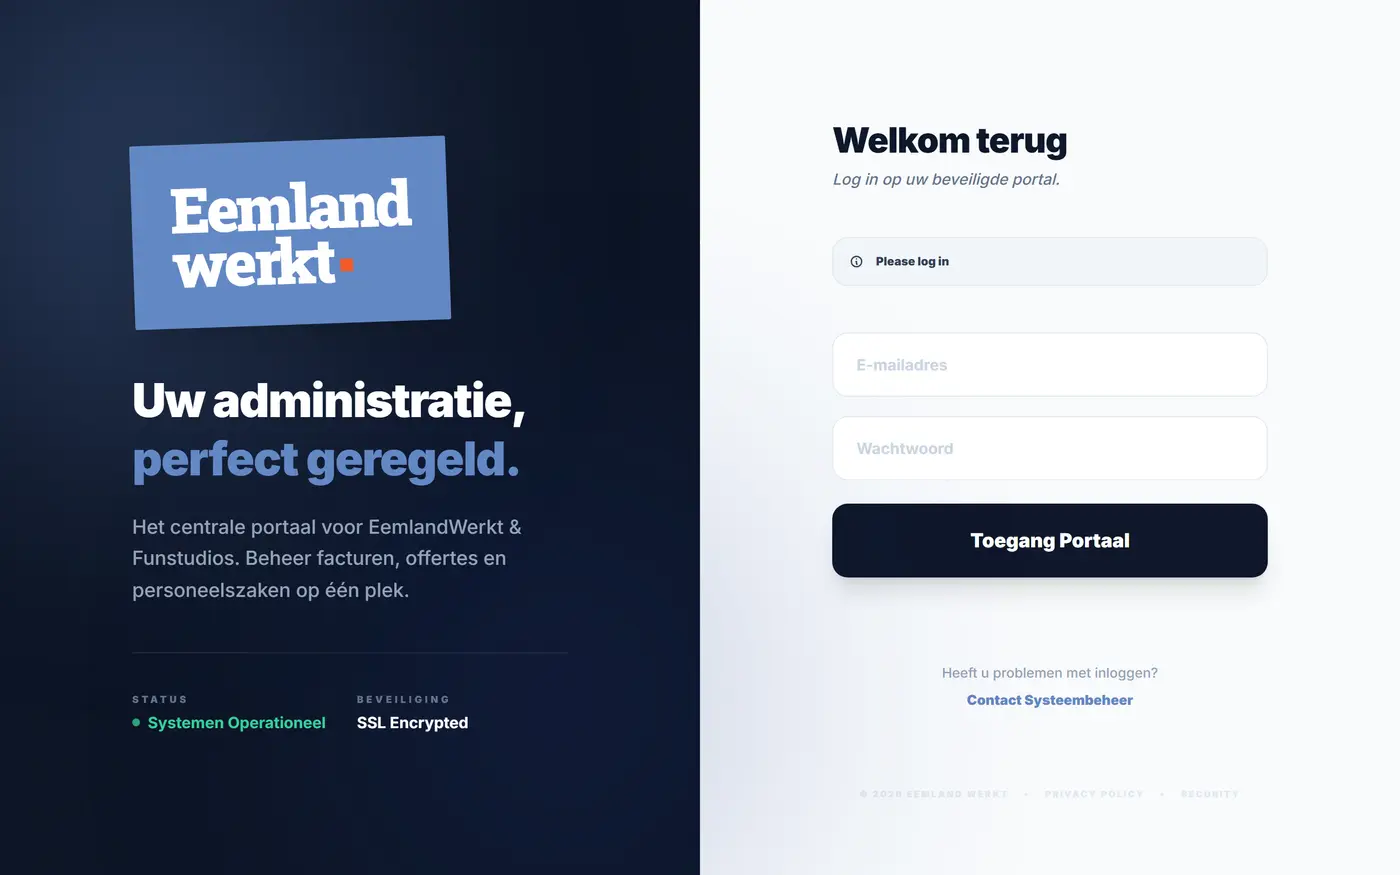
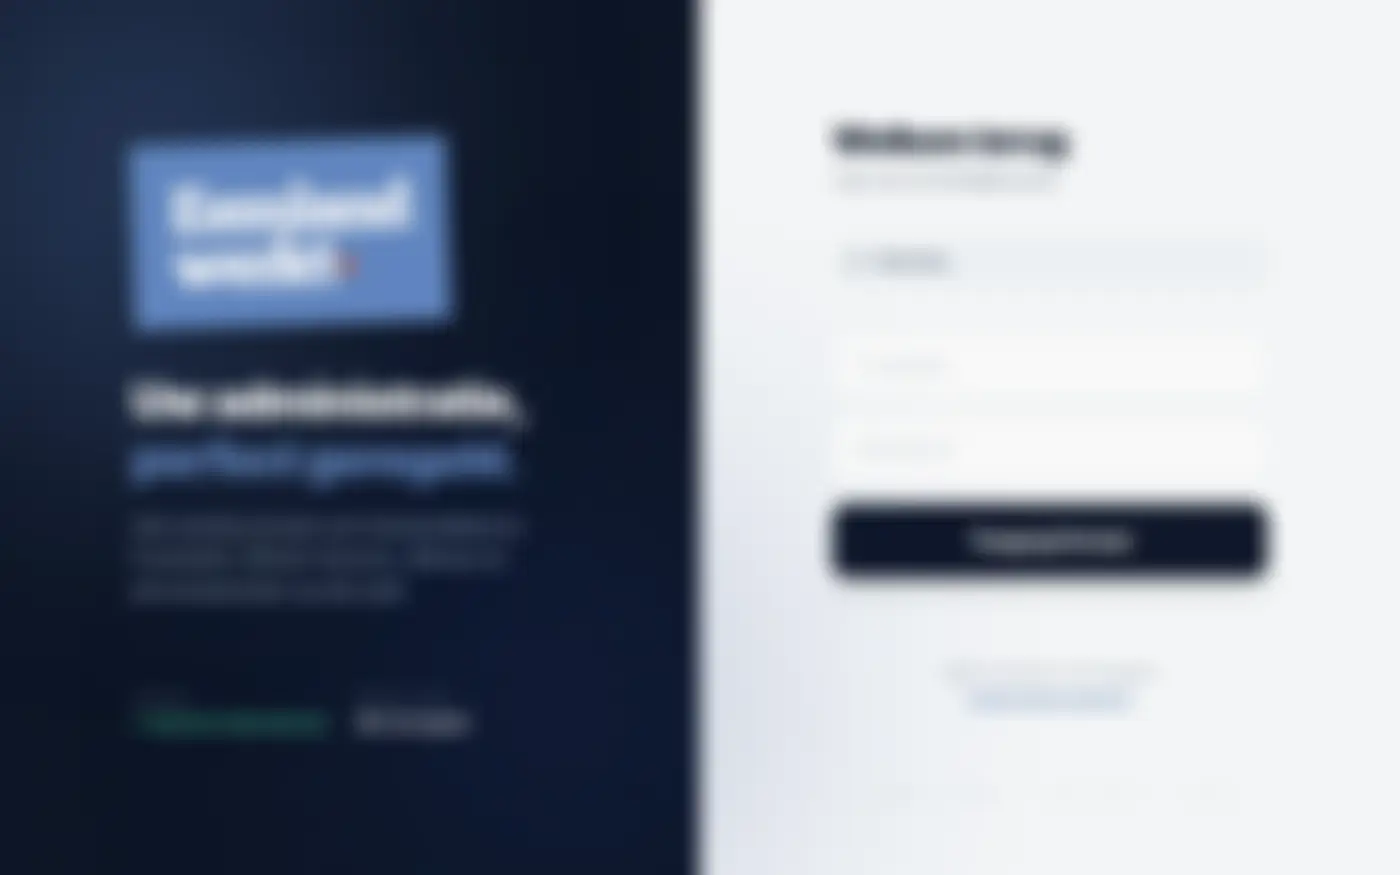
Simpeler: projectuitleg pas na een klik, klantgegevens onleesbaar gemaakt

diff --git a/index.html b/index.html
@@ -192,14 +192,26 @@
     100% { box-shadow: 0 0 0 0 rgba(47, 232, 176, 0); }
   }
 
-  /* ================= projectdetails ================= */
-  .details { margin-top: clamp(44px, 6vw, 72px); }
-  .detail { scroll-margin-top: 24px; padding-top: clamp(34px, 4.5vw, 54px); border-top: 1px solid var(--edge); }
-  .detail + .detail { margin-top: clamp(34px, 4.5vw, 54px); }
+  /* ================= projectdetails (alleen zichtbaar na een klik) ================= */
+  .details { margin-top: var(--col-gap); scroll-margin-top: 20px; }
+  .detail {
+    scroll-margin-top: 20px;
+    background: var(--panel);
+    border: 1px solid var(--edge-2);
+    border-radius: 20px;
+    padding: clamp(22px, 3vw, 38px);
+    box-shadow: var(--glow-hi);
+  }
   .d-top { display: flex; flex-wrap: wrap; align-items: center; gap: 12px; }
   .d-when { font-family: var(--mono); font-size: .74rem; color: var(--ink-3); letter-spacing: .06em; }
-  .d-back { margin-left: auto; font-family: var(--mono); font-size: .72rem; color: var(--ink-3); text-decoration: none; }
-  .d-back:hover { color: var(--beam); }
+  .d-close {
+    margin-left: auto;
+    font-family: var(--mono); font-size: .74rem; color: var(--ink-2);
+    background: var(--glass); border: 1px solid var(--edge);
+    padding: 7px 14px; border-radius: 999px; cursor: pointer;
+  }
+  .d-close:hover { border-color: var(--beam); color: var(--ink); }
+  .tile.active a { border-color: var(--beam); box-shadow: var(--glow-hi); }
   .detail h3 {
     font-family: var(--display); font-weight: 700;
     font-size: clamp(1.7rem, 4.2vw, 2.4rem); line-height: 1.07; letter-spacing: -.04em;
@@ -436,7 +448,7 @@
   <div class="wrap">
     <p class="eyebrow">Overzicht</p>
     <h2>Kies waar je naar wil kijken</h2>
-    <p class="intro">Elke tegel is een echt project. Klik erop en je springt naar de uitleg eronder: een voorbeeld uit de praktijk, wat het doet, en drie schermen van de draaiende versie.</p>
+    <p class="intro">Klik op een tegel en de uitleg klapt eronder open: een voorbeeld uit de praktijk, wat het doet, en drie schermen van de draaiende versie.</p>
 
     <div class="filters" id="filters"></div>
     <ul class="tiles row3" id="tiles">
@@ -459,7 +471,7 @@
         <a href="#p-eemland">
           <div class="thumb">
             <span class="pill on"><i></i>In bedrijf</span>
-            <img src="img/t-eemland.webp" width="760" height="475" alt="Inlogportaal van Eemland Boekt met de tekst Uw administratie, perfect geregeld.">
+            <img src="img/t-eemland.webp" width="760" height="475" alt="Onscherp gemaakt inlogportaal van Eemland Boekt.">
           </div>
           <div class="body">
             <h3>Eemland Boekt</h3>
@@ -576,7 +588,7 @@
         <div class="d-top">
           <span class="pill on"><i></i>Live online</span>
           <span class="d-when">augustus &ndash; september 2026</span>
-          <a class="d-back" href="#overzicht">&uarr; overzicht</a>
+          <button class="d-close" type="button">sluiten &times;</button>
         </div>
         <h3>Kozijnfabriek Direct</h3>
         <p class="d-lead">Voor een kozijnenfabrikant in de regio Amsterdam: een website die zelf offertes voorbereidt, en een dashboard waar het personeel de rest afhandelt.</p>
@@ -599,7 +611,6 @@
           <div class="col">
             <h4>Techniek</h4>
             <ul class="stack"><li>React 19</li><li>Node 22</li><li>Supabase</li><li>Google Gemini</li><li>Google Maps</li><li>Railway</li></ul>
-            <p class="numbers">116 opleveringen &middot; 39.642 regels</p>
             <div class="d-cta"><a class="btn btn-main" href="https://kozijnfabriekdirect.nl" target="_blank" rel="noopener">Open de site</a></div>
           </div>
         </div>
@@ -612,8 +623,8 @@
           </figure>
           <figure class="frame">
             <div class="bar"><i></i><i></i><i></i><b>reviews</b></div>
-            <div class="holder"><img src="img/kozijnfabriek-3.webp" width="1400" height="875" loading="lazy" alt="Sectie Wat onze klanten zeggen met drie reviews van vijf sterren."></div>
-            <figcaption>Reviews van echte klanten.</figcaption>
+            <div class="holder"><img src="img/kozijnfabriek-3.webp" width="1400" height="875" loading="lazy" alt="Sectie Wat onze klanten zeggen met drie reviews; de namen eronder zijn onleesbaar gemaakt."></div>
+            <figcaption>Reviews van echte klanten &mdash; namen bewust onleesbaar.</figcaption>
           </figure>
           <figure class="frame">
             <div class="bar"><i></i><i></i><i></i><b>vraag &amp; antwoord</b></div>
@@ -628,7 +639,7 @@
         <div class="d-top">
           <span class="pill on"><i></i>Draait in bedrijf</span>
           <span class="d-when">januari &ndash; september 2026</span>
-          <a class="d-back" href="#overzicht">&uarr; overzicht</a>
+          <button class="d-close" type="button">sluiten &times;</button>
         </div>
         <h3>Eemland Boekt</h3>
         <p class="d-lead">De complete administratie van een bouwbedrijf, van offerte tot btw-aangifte, in &eacute;&eacute;n systeem dat elke dag gebruikt wordt.</p>
@@ -651,7 +662,6 @@
           <div class="col">
             <h4>Techniek</h4>
             <ul class="stack"><li>React 19</li><li>Express</li><li>PostgreSQL</li><li>Supabase Storage</li><li>pdf-lib</li><li>Google Gemini</li></ul>
-            <p class="numbers">196 opleveringen &middot; 30.060 regels</p>
             <p class="note-closed">Besloten klantomgeving &mdash; rondleiding op aanvraag.</p>
           </div>
         </div>
@@ -659,8 +669,8 @@
         <div class="frames row3 solo">
           <figure class="frame">
             <div class="bar"><i></i><i></i><i></i><b>inlogportaal</b></div>
-            <div class="holder"><img src="img/eemland-1.webp" width="1400" height="875" loading="lazy" alt="Inlogscherm met de tekst Uw administratie, perfect geregeld en een formulier om in te loggen."></div>
-            <figcaption>Het portaal waar het bedrijf elke ochtend binnenkomt.</figcaption>
+            <div class="holder"><img src="img/eemland-1.webp" width="1400" height="875" loading="lazy" alt="Onscherp gemaakt inlogscherm van de besloten klantomgeving; alleen de indeling is te zien."></div>
+            <figcaption>Bewust onscherp: dit is een besloten omgeving van een klant.</figcaption>
           </figure>
         </div>
       </article>
@@ -670,7 +680,7 @@
         <div class="d-top">
           <span class="pill on"><i></i>Live online</span>
           <span class="d-when">september 2026</span>
-          <a class="d-back" href="#overzicht">&uarr; overzicht</a>
+          <button class="d-close" type="button">sluiten &times;</button>
         </div>
         <h3>Fun Studios</h3>
         <p class="d-lead">Voor een entertainmentbedrijf: photo booths, 360 booth, low fog, indoor vuurwerk en lichtletters &mdash; met een boekingsflow die de aanvragen binnenhaalt.</p>
@@ -693,7 +703,6 @@
           <div class="col">
             <h4>Techniek</h4>
             <ul class="stack"><li>React 19</li><li>Vite</li><li>Tailwind 4</li><li>Motion</li><li>Express</li><li>sharp</li></ul>
-            <p class="numbers">31 opleveringen &middot; 8.437 regels</p>
             <div class="d-cta"><a class="btn btn-main" href="https://www.funstudios.nl" target="_blank" rel="noopener">Open de site</a></div>
           </div>
         </div>
@@ -722,7 +731,7 @@
         <div class="d-top">
           <span class="pill off"><i></i>Prototype</span>
           <span class="d-when">september 2026</span>
-          <a class="d-back" href="#overzicht">&uarr; overzicht</a>
+          <button class="d-close" type="button">sluiten &times;</button>
         </div>
         <h3>KijkVergunning</h3>
         <p class="d-lead">Zie wat je mag bouwen voordat je begint: adres invullen, en je weet of die uitbouw vergunningvrij kan.</p>
@@ -745,7 +754,6 @@
           <div class="col">
             <h4>Techniek</h4>
             <ul class="stack"><li>Next.js 16</li><li>React 19</li><li>MapLibre</li><li>three.js</li><li>Supabase</li><li>zustand</li></ul>
-            <p class="numbers">10.453 regels &middot; demo draait zonder instellingen</p>
             <p class="note-closed">Draait lokaal &mdash; live demo op afspraak.</p>
           </div>
         </div>
@@ -774,7 +782,7 @@
         <div class="d-top">
           <span class="pill on"><i></i>Live online</span>
           <span class="d-when">januari &ndash; augustus 2026</span>
-          <a class="d-back" href="#overzicht">&uarr; overzicht</a>
+          <button class="d-close" type="button">sluiten &times;</button>
         </div>
         <h3>CourtSwap</h3>
         <p class="d-lead">Een compleet marktplaatsplatform: adverteren, zoeken op de kaart, chatten en afspreken &mdash; als website &eacute;n als app.</p>
@@ -797,7 +805,6 @@
           <div class="col">
             <h4>Techniek</h4>
             <ul class="stack"><li>React</li><li>Express 5</li><li>Prisma</li><li>PostgreSQL</li><li>Cloudinary</li><li>Capacitor</li></ul>
-            <p class="numbers">40 opleveringen &middot; 11.339 regels</p>
             <div class="d-cta"><a class="btn btn-main" href="https://web-production-d363a.up.railway.app" target="_blank" rel="noopener">Open het platform</a></div>
           </div>
         </div>
@@ -816,7 +823,7 @@
         <div class="d-top">
           <span class="pill on"><i></i>Live online</span>
           <span class="d-when">november 2025 &ndash; januari 2026</span>
-          <a class="d-back" href="#overzicht">&uarr; overzicht</a>
+          <button class="d-close" type="button">sluiten &times;</button>
         </div>
         <h3>REMH Bouw &amp; Verbouw</h3>
         <p class="d-lead">Website voor een aannemer, met een configurator die de klant zijn eigen dakkapel laat samenstellen.</p>
@@ -838,7 +845,6 @@
           <div class="col">
             <h4>Techniek</h4>
             <ul class="stack"><li>React 19</li><li>Express</li><li>MySQL</li><li>PDFKit</li><li>three.js</li><li>Railway</li></ul>
-            <p class="numbers">32 opleveringen &middot; 5.760 regels</p>
             <div class="d-cta"><a class="btn btn-main" href="https://remhofficial-production.up.railway.app" target="_blank" rel="noopener">Open de site</a></div>
           </div>
         </div>
@@ -867,7 +873,7 @@
         <div class="d-top">
           <span class="pill on"><i></i>Live online</span>
           <span class="d-when">augustus 2026</span>
-          <a class="d-back" href="#overzicht">&uarr; overzicht</a>
+          <button class="d-close" type="button">sluiten &times;</button>
         </div>
         <h3>Glacio Klimaattechniek</h3>
         <p class="d-lead">Bedrijfssite voor een airco- en klimaatinstallateur, met een keuzehulp, vaste tarieven en online intake.</p>
@@ -889,7 +895,6 @@
           <div class="col">
             <h4>Techniek</h4>
             <ul class="stack"><li>Node</li><li>Railway</li></ul>
-            <p class="numbers">online sinds 28 augustus 2026</p>
             <div class="d-cta"><a class="btn btn-main" href="https://glacio-site-production.up.railway.app" target="_blank" rel="noopener">Open de site</a></div>
           </div>
         </div>
@@ -918,7 +923,7 @@
         <div class="d-top">
           <span class="pill off"><i></i>Prototype</span>
           <span class="d-when">februari 2026</span>
-          <a class="d-back" href="#overzicht">&uarr; overzicht</a>
+          <button class="d-close" type="button">sluiten &times;</button>
         </div>
         <h3>Lumi&egrave;re Dakkapellen</h3>
         <p class="d-lead">Een dakkapel die je in 3D op je eigen dak ziet staan &mdash; draaien, afwerking kiezen, offerte eruit.</p>
@@ -939,7 +944,6 @@
           <div class="col">
             <h4>Techniek</h4>
             <ul class="stack"><li>React 19</li><li>three.js</li><li>React Three Fiber</li><li>Framer Motion</li><li>jsPDF</li></ul>
-            <p class="numbers">1.499 regels</p>
             <p class="note-closed">Werkend prototype &mdash; draait lokaal.</p>
           </div>
         </div>
@@ -958,7 +962,7 @@
         <div class="d-top">
           <span class="pill off"><i></i>Studieproject</span>
           <span class="d-when">maart &ndash; juni 2026</span>
-          <a class="d-back" href="#overzicht">&uarr; overzicht</a>
+          <button class="d-close" type="button">sluiten &times;</button>
         </div>
         <h3>Kiesradar</h3>
         <p class="d-lead">Teamproject aan de Hogeschool van Amsterdam: een fysieke opstelling die studiekiezers helpt kiezen, met sensoren die met een webapp praten.</p>
@@ -980,7 +984,6 @@
           <div class="col">
             <h4>Techniek</h4>
             <ul class="stack"><li>Python</li><li>Flask</li><li>MySQL</li><li>Docker</li><li>ESP32</li><li>GitLab CI</li></ul>
-            <p class="numbers">97 opleveringen &middot; teamproject in tweetal</p>
           </div>
         </div>
 
@@ -1000,7 +1003,7 @@
   <div class="wrap">
     <p class="eyebrow">Tijdlijn</p>
     <h2>Wanneer ik waaraan werkte</h2>
-    <p class="intro">Elk balkje loopt van de eerste tot de laatste keer dat ik code opleverde in dat project &mdash; 521 opleveringen in totaal. Deze cijfers komen niet uit mijn hoofd, ze zijn geteld in de projecten zelf.</p>
+    <p class="intro">Elk balkje loopt van de eerste tot de laatste dag dat ik aan dat project werkte. Niet uit mijn hoofd opgeschreven &mdash; afgelezen uit de projecten zelf.</p>
     <div class="gantt" id="gantt"></div>
     <div class="legend">
       <span><i style="background: linear-gradient(100deg,#5B8CFF,#C06BFF)"></i> staat nu live</span>
@@ -1161,22 +1164,64 @@
     b.addEventListener("click", function () {
       Array.prototype.forEach.call(box.children, function (o) { o.setAttribute("aria-pressed", "false"); });
       b.setAttribute("aria-pressed", "true");
-      tiles.concat(details).forEach(function (el) {
+      sluit();
+      tiles.forEach(function (el) {
         el.hidden = f.key !== "alles" && !has(el, f.key);
       });
     });
     box.appendChild(b);
   });
 
-  /* een verborgen project moet weer zichtbaar worden als je er direct heen linkt */
-  window.addEventListener("hashchange", function () {
-    var t = document.querySelector(window.location.hash || "#none");
-    if (t && t.hidden) {
-      var alles = document.getElementById("filter-alles");
-      if (alles) alles.click();
-      t.scrollIntoView();
-    }
+  /* ---------- details pas tonen als iemand een tegel aanklikt ----------
+     Zonder JavaScript staat alles gewoon open; hier klappen we het dicht. */
+  var openId = null;
+
+  function sluit() {
+    details.forEach(function (d) { d.hidden = true; });
+    tiles.forEach(function (t) { t.classList.remove("active"); });
+    openId = null;
+  }
+
+  function toon(id, scroll) {
+    var doel = document.getElementById(id);
+    if (!doel) return;
+    if (openId === id) { sluit(); return; }
+    sluit();
+    doel.hidden = false;
+    openId = id;
+    tiles.forEach(function (t) {
+      var a = t.querySelector("a");
+      if (a && a.getAttribute("href") === "#" + id) t.classList.add("active");
+    });
+    if (scroll !== false) doel.scrollIntoView({ block: "start" });
+  }
+
+  sluit();
+
+  tiles.forEach(function (t) {
+    var a = t.querySelector("a");
+    if (!a) return;
+    a.addEventListener("click", function (e) {
+      e.preventDefault();
+      toon(a.getAttribute("href").slice(1), true);
+    });
   });
+
+  details.forEach(function (d) {
+    var knop = d.querySelector(".d-close");
+    if (!knop) return;
+    knop.addEventListener("click", function () {
+      var tegel = document.querySelector('.tile a[href="#' + d.id + '"]');
+      sluit();
+      if (tegel) tegel.closest(".tile").scrollIntoView({ block: "center" });
+    });
+  });
+
+  document.addEventListener("keydown", function (e) {
+    if (e.key === "Escape" && openId) sluit();
+  });
+
+  if (window.location.hash) toon(window.location.hash.slice(1), false);
 
   /* ---------- tijdlijn ---------- */
   var ROWS = [
